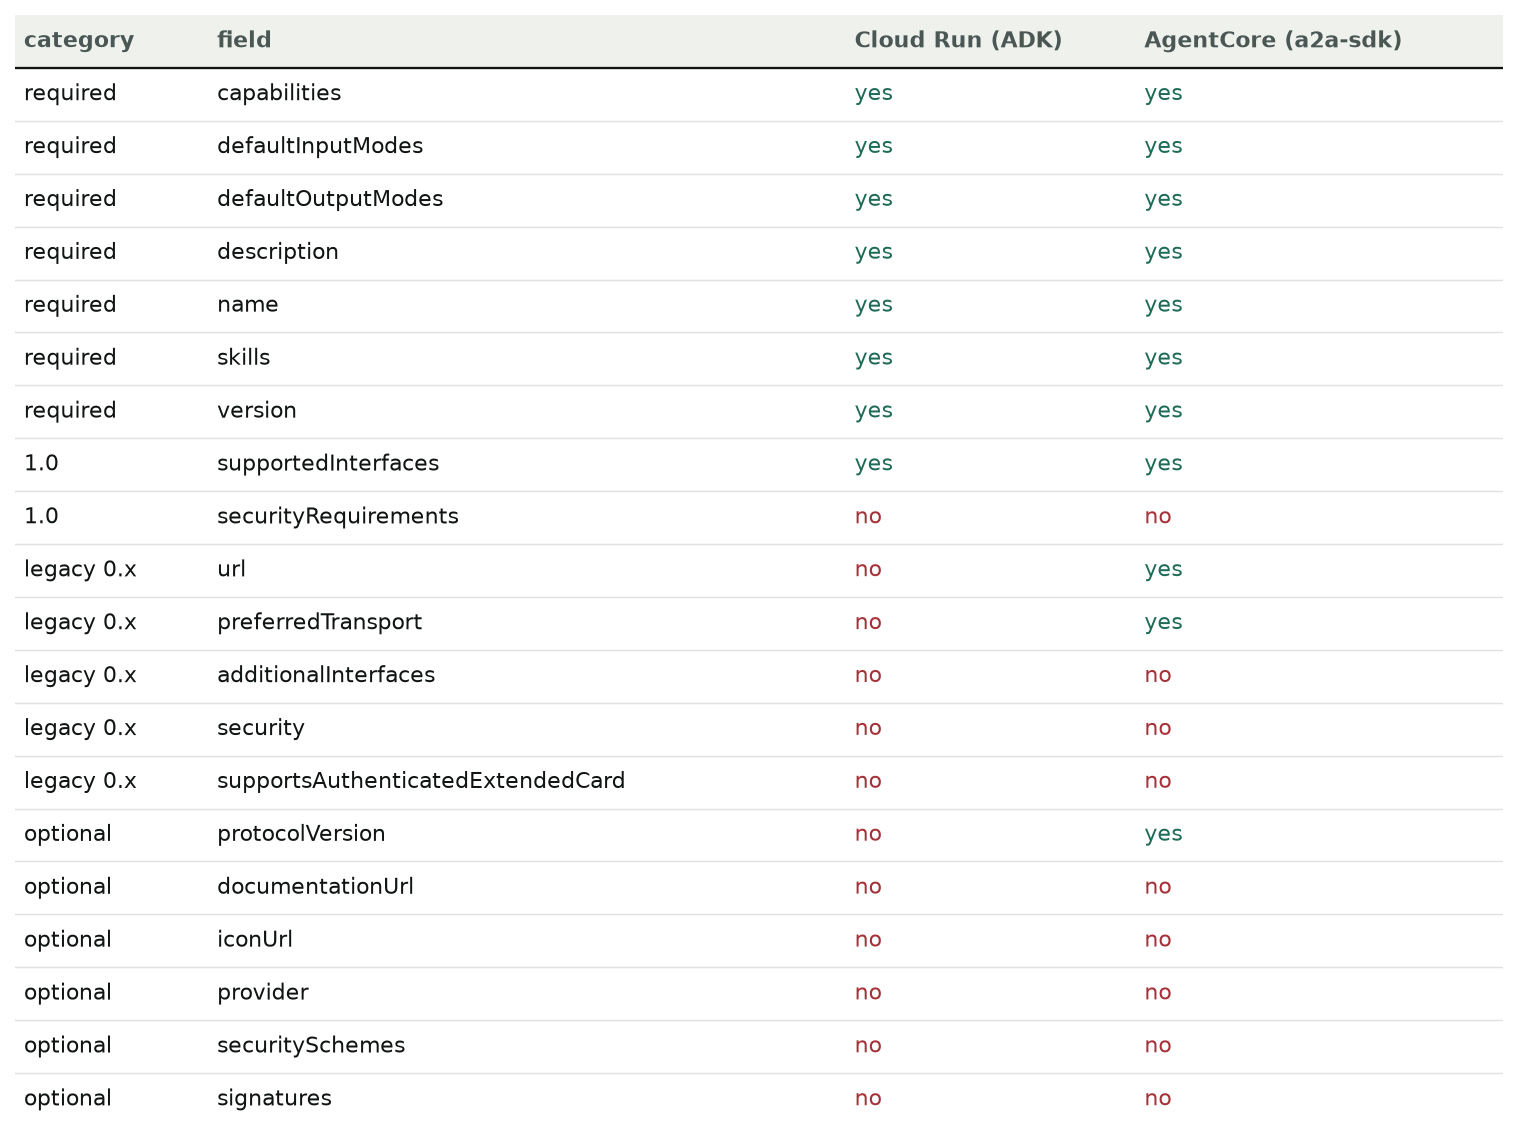
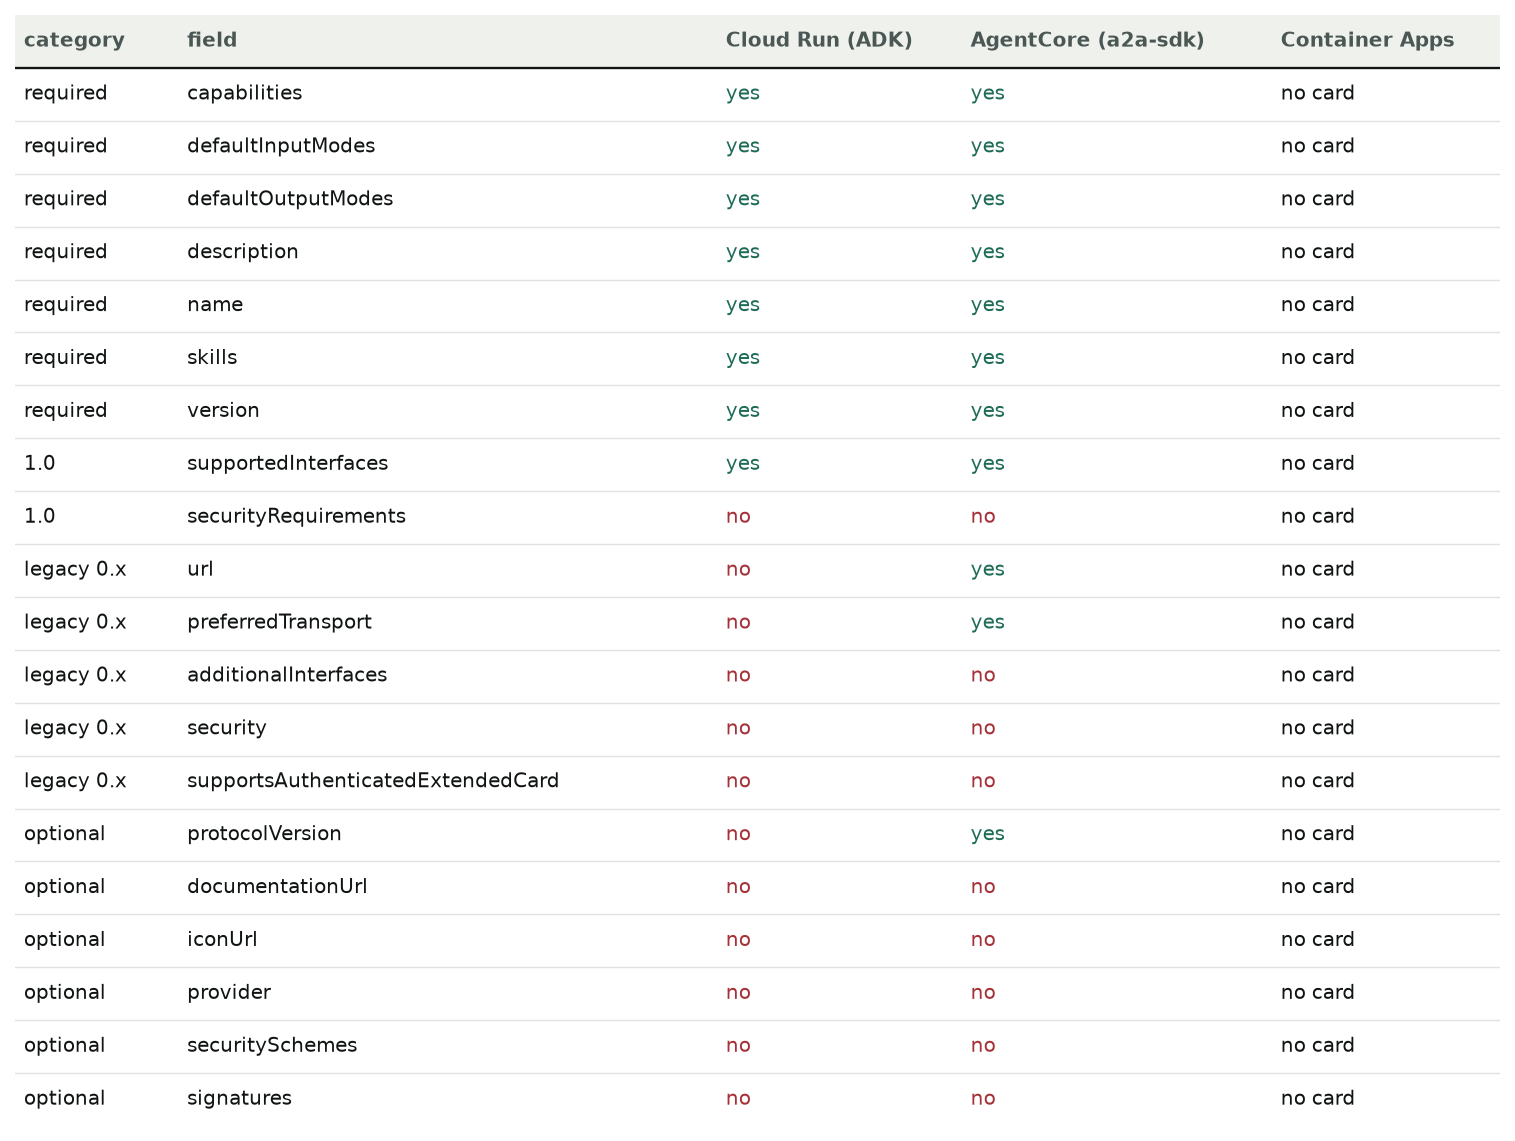
Give Azure a column in the field inventory
The field inventory covered the two cards that were retrieved and dropped
Container Apps without saying so, at exactly the point a reader is looking for
all three clouds.

Azure is now a third column reading "no card" throughout, with the reason stated
under the table: its agent answers 401 at the platform auth middleware, so there
is nothing to inventory. The column is deliberately not a column of noes. A no
means the card was read and the field was absent; no card means nothing was read
and every field is unknown rather than missing, and collapsing the two would
turn one denial into twenty findings. The renderer reddens only an exact "no",
so "no card" stays neutral and the distinction survives into the image.

Also records that the local mesh does not fill the gap, since its azure specimen
runs a2a-sdk rather than Agent Framework and is a control for the SDK only.

make_medium.py now generates devto-draft.md from ARTICLE.md as well, so the
article, the dev.to draft and the Medium draft cannot drift apart.

diff --git a/docs/import/agent-card-field-comparison-50851d2801.html b/docs/import/agent-card-field-comparison-50851d2801.html
@@ -122,10 +122,20 @@ account:</p>
 Cloud Run accepts it anyway, honouring the allowlisted CLI client id. The result
 proves IAM role membership only, so the tool logs a warning on every fallback.</p>
 <h4>What Fields are Actually in the Cards?</h4>
-<p>This is the full top level field inventory for the two deployed cards. The spec
+<p>This is the full top level field inventory across the three clouds. The spec
 groups fields into required core, 1.0 era, legacy 0.x, and optional:</p>
-<figure><img src="https://xbill9.github.io/multicloud-agentcard/img/medium/table-01.png" alt="Table: category; field; Cloud Run ADK; AgentCore a2a-sdk" /><figcaption>Table: category; field; Cloud Run ADK; AgentCore a2a-sdk</figcaption></figure>
-<p>Three conclusions follow directly from that table.</p>
+<figure><img src="https://xbill9.github.io/multicloud-agentcard/img/medium/table-01.png" alt="Table: category; field; Cloud Run ADK; AgentCore a2a-sdk; Container Apps" /><figcaption>Table: category; field; Cloud Run ADK; AgentCore a2a-sdk; Container Apps</figcaption></figure>
+<p>The Container Apps column is the honest shape of the result. Its agent answers
+401 at the platform auth middleware, so there is no card to inventory and no
+field in it can be reported either way.</p>
+<p>That column is not the same as a column of noes. A no means the card was read
+and the field was absent. <code>no card</code> means nothing was read at all, and every
+field in that column is unknown rather than missing. Collapsing the two would
+turn one denial into twenty findings.</p>
+<p>The local mesh does not fill the gap either. Its <code>azure</code> specimen runs the
+a2a-sdk reference routes rather than Agent Framework, so it is a control for the
+SDK and says nothing about what the deployed Azure runtime publishes.</p>
+<p>Three conclusions follow from the two columns that do carry a card.</p>
 <h4>Required Fields - Where the Clouds Agree</h4>
 <p>Both cards carry all seven required fields. Neither card is malformed, and a
 validator checking only the required set passes both.</p>

diff --git a/docs/make_medium.py b/docs/make_medium.py
@@ -196,7 +196,33 @@ def alt_safe(text: str) -> str:
     return re.sub(r"[\[\]()]", "", text).strip()
 
 
+FRONT_MATTER = """---
+title: Cross Cloud A2A Agent Card Field Comparison
+published: false
+description: Fetching A2A agent cards from Cloud Run, Bedrock AgentCore and Azure Container Apps, and comparing every field they publish.
+tags: a2a, multicloud, ai, python
+cover_image: https://raw.githubusercontent.com/xbill9/multicloud-agentcard/master/docs/article-header.jpg
+---
+"""
+
+
+def build_devto() -> None:
+    """ARTICLE.md plus dev.to front matter.
+
+    Generated rather than hand-maintained. The Medium version is built from this
+    file, so a dev.to draft edited by hand and an ARTICLE.md edited separately
+    would put three copies of the same prose out of step.
+    """
+    src = (DOCS / "ARTICLE.md").read_text()
+    body = src.split("\n", 1)[1]
+    body = "\n".join(
+        line for line in body.split("\n") if not line.startswith("![Three agent cards")
+    )
+    (DOCS / "devto-draft.md").write_text(FRONT_MATTER + body.lstrip("\n"))
+
+
 def main() -> None:
+    build_devto()
     src = (DOCS / "devto-draft.md").read_text()
     # drop the dev.to front matter
     if src.startswith("---"):
@@ -238,7 +264,8 @@ def main() -> None:
     md = ("# Cross Cloud A2A Agent Card Field Comparison\n\n"
           + header_img + "\n\n" + "\n\n".join(b.strip("\n") for b in out_md if b.strip()) + "\n")
     (DOCS / "medium-draft.md").write_text(md)
-    print(f"medium-draft.md written: {n_tbl} tables and {n_code} code blocks as images")
+    print(f"devto-draft.md and medium-draft.md written: "
+          f"{n_tbl} tables and {n_code} code blocks as images")
 
 
 if __name__ == "__main__":

diff --git a/docs/ARTICLE.md b/docs/ARTICLE.md
@@ -251,33 +251,46 @@ proves IAM role membership only, so the tool logs a warning on every fallback.
 
 ## What Fields are Actually in the Cards?
 
-This is the full top level field inventory for the two deployed cards. The spec
+This is the full top level field inventory across the three clouds. The spec
 groups fields into required core, 1.0 era, legacy 0.x, and optional:
 
-| category | field | Cloud Run (ADK) | AgentCore (a2a-sdk) |
-|---|---|---|---|
-| required | capabilities | yes | yes |
-| required | defaultInputModes | yes | yes |
-| required | defaultOutputModes | yes | yes |
-| required | description | yes | yes |
-| required | name | yes | yes |
-| required | skills | yes | yes |
-| required | version | yes | yes |
-| 1.0 | supportedInterfaces | yes | yes |
-| 1.0 | securityRequirements | no | no |
-| legacy 0.x | url | no | yes |
-| legacy 0.x | preferredTransport | no | yes |
-| legacy 0.x | additionalInterfaces | no | no |
-| legacy 0.x | security | no | no |
-| legacy 0.x | supportsAuthenticatedExtendedCard | no | no |
-| optional | protocolVersion | no | yes |
-| optional | documentationUrl | no | no |
-| optional | iconUrl | no | no |
-| optional | provider | no | no |
-| optional | securitySchemes | no | no |
-| optional | signatures | no | no |
+| category | field | Cloud Run (ADK) | AgentCore (a2a-sdk) | Container Apps |
+|---|---|---|---|---|
+| required | capabilities | yes | yes | no card |
+| required | defaultInputModes | yes | yes | no card |
+| required | defaultOutputModes | yes | yes | no card |
+| required | description | yes | yes | no card |
+| required | name | yes | yes | no card |
+| required | skills | yes | yes | no card |
+| required | version | yes | yes | no card |
+| 1.0 | supportedInterfaces | yes | yes | no card |
+| 1.0 | securityRequirements | no | no | no card |
+| legacy 0.x | url | no | yes | no card |
+| legacy 0.x | preferredTransport | no | yes | no card |
+| legacy 0.x | additionalInterfaces | no | no | no card |
+| legacy 0.x | security | no | no | no card |
+| legacy 0.x | supportsAuthenticatedExtendedCard | no | no | no card |
+| optional | protocolVersion | no | yes | no card |
+| optional | documentationUrl | no | no | no card |
+| optional | iconUrl | no | no | no card |
+| optional | provider | no | no | no card |
+| optional | securitySchemes | no | no | no card |
+| optional | signatures | no | no | no card |
 
-Three conclusions follow directly from that table.
+The Container Apps column is the honest shape of the result. Its agent answers
+401 at the platform auth middleware, so there is no card to inventory and no
+field in it can be reported either way.
+
+That column is not the same as a column of noes. A no means the card was read
+and the field was absent. `no card` means nothing was read at all, and every
+field in that column is unknown rather than missing. Collapsing the two would
+turn one denial into twenty findings.
+
+The local mesh does not fill the gap either. Its `azure` specimen runs the
+a2a-sdk reference routes rather than Agent Framework, so it is a control for the
+SDK and says nothing about what the deployed Azure runtime publishes.
+
+Three conclusions follow from the two columns that do carry a card.
 
 ## Required Fields - Where the Clouds Agree
 

diff --git a/docs/devto-draft.md b/docs/devto-draft.md
@@ -254,33 +254,46 @@ proves IAM role membership only, so the tool logs a warning on every fallback.
 
 ## What Fields are Actually in the Cards?
 
-This is the full top level field inventory for the two deployed cards. The spec
+This is the full top level field inventory across the three clouds. The spec
 groups fields into required core, 1.0 era, legacy 0.x, and optional:
 
-| category | field | Cloud Run (ADK) | AgentCore (a2a-sdk) |
-|---|---|---|---|
-| required | capabilities | yes | yes |
-| required | defaultInputModes | yes | yes |
-| required | defaultOutputModes | yes | yes |
-| required | description | yes | yes |
-| required | name | yes | yes |
-| required | skills | yes | yes |
-| required | version | yes | yes |
-| 1.0 | supportedInterfaces | yes | yes |
-| 1.0 | securityRequirements | no | no |
-| legacy 0.x | url | no | yes |
-| legacy 0.x | preferredTransport | no | yes |
-| legacy 0.x | additionalInterfaces | no | no |
-| legacy 0.x | security | no | no |
-| legacy 0.x | supportsAuthenticatedExtendedCard | no | no |
-| optional | protocolVersion | no | yes |
-| optional | documentationUrl | no | no |
-| optional | iconUrl | no | no |
-| optional | provider | no | no |
-| optional | securitySchemes | no | no |
-| optional | signatures | no | no |
+| category | field | Cloud Run (ADK) | AgentCore (a2a-sdk) | Container Apps |
+|---|---|---|---|---|
+| required | capabilities | yes | yes | no card |
+| required | defaultInputModes | yes | yes | no card |
+| required | defaultOutputModes | yes | yes | no card |
+| required | description | yes | yes | no card |
+| required | name | yes | yes | no card |
+| required | skills | yes | yes | no card |
+| required | version | yes | yes | no card |
+| 1.0 | supportedInterfaces | yes | yes | no card |
+| 1.0 | securityRequirements | no | no | no card |
+| legacy 0.x | url | no | yes | no card |
+| legacy 0.x | preferredTransport | no | yes | no card |
+| legacy 0.x | additionalInterfaces | no | no | no card |
+| legacy 0.x | security | no | no | no card |
+| legacy 0.x | supportsAuthenticatedExtendedCard | no | no | no card |
+| optional | protocolVersion | no | yes | no card |
+| optional | documentationUrl | no | no | no card |
+| optional | iconUrl | no | no | no card |
+| optional | provider | no | no | no card |
+| optional | securitySchemes | no | no | no card |
+| optional | signatures | no | no | no card |
 
-Three conclusions follow directly from that table.
+The Container Apps column is the honest shape of the result. Its agent answers
+401 at the platform auth middleware, so there is no card to inventory and no
+field in it can be reported either way.
+
+That column is not the same as a column of noes. A no means the card was read
+and the field was absent. `no card` means nothing was read at all, and every
+field in that column is unknown rather than missing. Collapsing the two would
+turn one denial into twenty findings.
+
+The local mesh does not fill the gap either. Its `azure` specimen runs the
+a2a-sdk reference routes rather than Agent Framework, so it is a control for the
+SDK and says nothing about what the deployed Azure runtime publishes.
+
+Three conclusions follow from the two columns that do carry a card.
 
 ## Required Fields - Where the Clouds Agree
 

diff --git a/docs/medium-draft.md b/docs/medium-draft.md
@@ -161,12 +161,25 @@ proves IAM role membership only, so the tool logs a warning on every fallback.
 
 #### What Fields are Actually in the Cards?
 
-This is the full top level field inventory for the two deployed cards. The spec
+This is the full top level field inventory across the three clouds. The spec
 groups fields into required core, 1.0 era, legacy 0.x, and optional:
 
-![Table: category; field; Cloud Run ADK; AgentCore a2a-sdk](https://raw.githubusercontent.com/xbill9/multicloud-agentcard/master/docs/img/medium/table-01.png)
+![Table: category; field; Cloud Run ADK; AgentCore a2a-sdk; Container Apps](https://raw.githubusercontent.com/xbill9/multicloud-agentcard/master/docs/img/medium/table-01.png)
 
-Three conclusions follow directly from that table.
+The Container Apps column is the honest shape of the result. Its agent answers
+401 at the platform auth middleware, so there is no card to inventory and no
+field in it can be reported either way.
+
+That column is not the same as a column of noes. A no means the card was read
+and the field was absent. `no card` means nothing was read at all, and every
+field in that column is unknown rather than missing. Collapsing the two would
+turn one denial into twenty findings.
+
+The local mesh does not fill the gap either. Its `azure` specimen runs the
+a2a-sdk reference routes rather than Agent Framework, so it is a control for the
+SDK and says nothing about what the deployed Azure runtime publishes.
+
+Three conclusions follow from the two columns that do carry a card.
 
 #### Required Fields - Where the Clouds Agree
 
